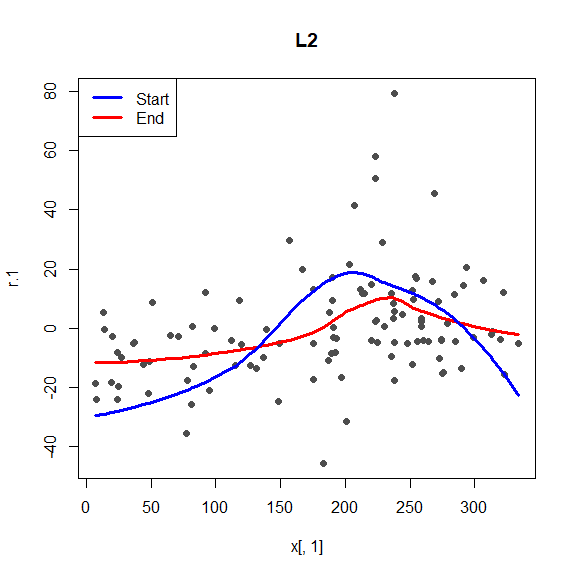
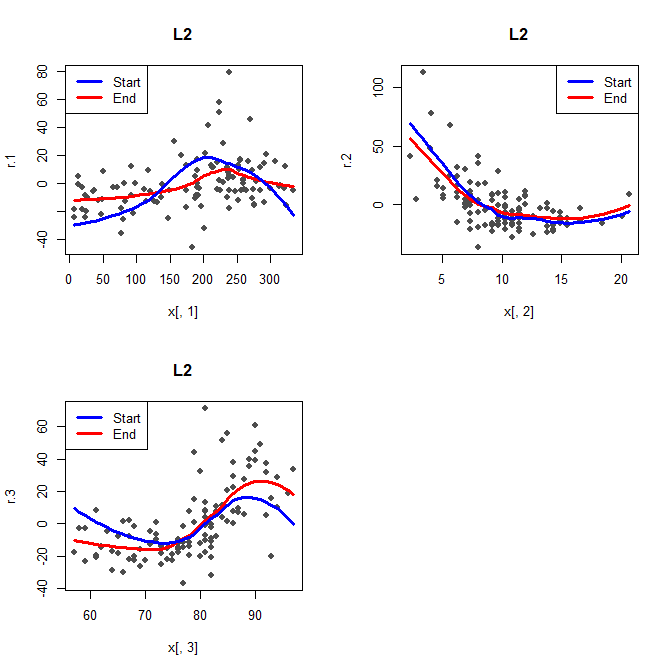
udpates, enough?

diff --git a/Example-backfitting.md b/Example-backfitting.md
@@ -1,7 +1,7 @@
 STAT547O - Backfitting notes
 ================
 Matias Salibian-Barrera
-2019-11-09
+2019-11-11
 
 #### LICENSE
 
@@ -18,11 +18,14 @@ thing**
 
 In these notes we apply the backfitting algorithm to estimate the
 components of an additive model for the Air Quality Data (available in
-`R` in package `datasets`). The goal is to illustrate how backfitting
-works, and compare the classical (“L2”) and robust estimators for an
-additive model. First we construct the response vector `y` and the
-“design matrix” `x` that contains the three available explanatory
-variables:
+`R` in package `datasets`). The goals are to illustrate in detail the
+steps of the algorithm for both the classical (“L2”) and robust cases,
+and also to compare the resulting estimates. The L2 backfitting
+algorithm with local polynomial smoothers is implemented in `gam::gam()`
+and the robust version in `RBF::backf.rob`.
+
+First we construct the response vector `y` and the “design matrix” `x`
+that contains the three available explanatory variables:
 
 ``` r
 data(airquality)
@@ -33,7 +36,9 @@ y <- as.vector(x$Ozone)
 x <- as.matrix(x[, c('Solar.R', 'Wind', 'Temp')])
 ```
 
-We use all the pairwise plots to take a very quick look at the data:
+The plot below show all the pairwise scatterplots, and is a simple
+exploratory tool (note that nothing out of the ordinary is apparent in
+the data):
 
 ``` r
 pairs(cbind(y,x), labels=c('Ozone', colnames(x)), pch=19, col='gray30', cex=1.5)
@@ -46,10 +51,10 @@ pairs(cbind(y,x), labels=c('Ozone', colnames(x)), pch=19, col='gray30', cex=1.5)
 As we discussed in class, the classical backfitting algorithm is used to
 estimate the components of an additive regression model. More
 specifically, the algorithm is an iterative procedure to find a solution
-to the first-order system of equations. There are two loops: the inner
-loop iterates over the components of the additive model, and the outer
-loop repeats this until a convergence (or stopping) criterion is
-satisfied.
+to the first-order system of equations for the L2 loss. There are two
+loops: the inner loop iterates over the components of the additive
+model, and the outer loop repeats the outer loop until a convergence (or
+stopping) criterion is satisfied.
 
 It is easy to see that in the L2 case the estimated intercept is the
 mean of the response, so the algorithm starts setting the intercept
@@ -76,7 +81,7 @@ residuals `r.1` above as a function of `x1`. In what follows we will use
 the function `loess` to compute a local polynomial regression estimator,
 with a bandwidth of `span = .65`. The latter was chosen subjectively
 (essentially by “eyeballing” the plots so that they look reasonable). In
-practice one would need a principled approach to this
+practice one would need a principled approach for this
 (e.g. cross-validation).
 
 ``` r
@@ -138,11 +143,12 @@ f.hat.2.orig <- f.hat.2
 f.hat.3.orig <- f.hat.3
 ```
 
-We have now completed **one** pass of the inner loop. We now perform 15
-iterations of this loop. Why 15? Only because I thought they would be
-enough for convergence. Just in case, below we also print the
-approximated L2 norm of consecutive estimates, the square root of
-\[\sum_{j=1}^3 \| \hat{f}_j^{(k+1)} - \hat{f}_j^{(k)} \|^2\].
+We have now completed **the first** pass of the inner loop. The next
+code chunk perform 15 more iterations of this loop. Why 15? Only because
+I thought they would be enough for convergence. Just in case, I also
+print the approximated L2 norm of consecutive estimates (the square root
+of \[\sum_{j=1}^3 \| \hat{f}_j^{(k+1)} - \hat{f}_j^{(k)} \|^2\]) to
+check that the algorithm is indeed converging.
 
 ``` r
 for(i in 1:15) {
@@ -185,35 +191,29 @@ for(i in 1:15) {
     ## [1] 8.061999e-06
     ## [1] 3.252211e-06
 
-We see that the algorithm converges rather quickly. Now plot the “final”
-estimates, and compare them with the initial ones:
+Indeed, the algorithm converges well.  
+We now plot the “final” estimates, and compare them with the initial
+ones:
 
 ``` r
+par(mfrow=c(2,2))
 plot(r.1 ~ x[,1], type='p', pch=19, col='gray30', main='L2')
 lines(f.hat.1[oo] ~ x[oo,1], col='red', lwd=3)
 lines(f.hat.1.orig[oo] ~ x[oo,1], col='blue', lwd=3)
 legend('topleft', legend=c('Start', 'End'), lwd=3, col=c('blue', 'red'))
-```
 
-![](Example-backfitting_files/figure-gfm/iterate.show-1.png)<!-- -->
-
-``` r
 plot(r.2 ~ x[,2], type='p', pch=19, col='gray30', main='L2')
 lines(f.hat.2[oo2] ~ x[oo2,2], col='red', lwd=3)
 lines(f.hat.2.orig[oo2] ~ x[oo2,2], col='blue', lwd=3)
 legend('topright', legend=c('Start', 'End'), lwd=3, col=c('blue', 'red'))
-```
 
-![](Example-backfitting_files/figure-gfm/iterate.show-2.png)<!-- -->
-
-``` r
 plot(r.3 ~ x[,3], type='p', pch=19, col='gray30', main='L2')
 lines(f.hat.3[oo3] ~ x[oo3,3], col='red', lwd=3)
 lines(f.hat.3.orig[oo3] ~ x[oo3,3], col='blue', lwd=3)
 legend('topleft', legend=c('Start', 'End'), lwd=3, col=c('blue', 'red'))
 ```
 
-![](Example-backfitting_files/figure-gfm/iterate.show-3.png)<!-- -->
+![](Example-backfitting_files/figure-gfm/iterate.show-1.png)<!-- -->
 
 **NOTE** that the above comparisons between the initial estimators and
 the final ones is not completely accurate, as the partial residuals in
@@ -234,32 +234,24 @@ dat$Ozone <- y
 gg <- predict(gam(Ozone ~ lo(Solar.R, span=.65) +
                   lo(Wind, span=.65) + lo(Temp, span=.65), data=dat),
               type='terms')
-
+par(mfrow=c(2,2))
 plot(r.1 ~ x[,1], type='p', pch=19, col='gray30')
 lines(f.hat.1[oo] ~ x[oo,1], col='red', lwd=3)
 lines(gg[oo,1] ~ x[oo,1], col='blue', lwd=3)
 legend('topleft', legend=c('gam::gam', 'Home made'), lwd=3, col=c('blue', 'red'))
-```
 
-![](Example-backfitting_files/figure-gfm/trygam-1.png)<!-- -->
-
-``` r
 plot(r.2 ~ x[,2], type='p', pch=19, col='gray30')
 lines(f.hat.2[oo2] ~ x[oo2,2], col='red', lwd=3)
 lines(gg[oo2,2] ~ x[oo2,2], col='blue', lwd=3)
 legend('topright', legend=c('gam::gam', 'Home made'), lwd=3, col=c('blue', 'red'))
-```
 
-![](Example-backfitting_files/figure-gfm/trygam-2.png)<!-- -->
-
-``` r
 plot(r.3 ~ x[,3], type='p', pch=19, col='gray30')
 lines(f.hat.3[oo3] ~ x[oo3,3], col='red', lwd=3)
 lines(gg[oo3,3] ~ x[oo3,3], col='blue', lwd=3)
 legend('topleft', legend=c('gam::gam', 'Home made'), lwd=3, col=c('blue', 'red'))
 ```
 
-![](Example-backfitting_files/figure-gfm/trygam-3.png)<!-- -->
+![](Example-backfitting_files/figure-gfm/trygam-1.png)<!-- -->
 
 I will also save our “final” estimators to compare them with the robust
 ones below:
@@ -292,13 +284,13 @@ si.hat <- RBF::backf.rob(Xp=x, yp=y, windows=bandw)$sigma.hat
 ```
 
 The bandwidths above were originally computed using robust cross
-validation and the implementation of this robust backfitting in
-`RBF::backf.rob`.
+validation (on a 3-dimensional grid) and the implementation of this
+robust backfitting in `RBF::backf.rob`.
 
 We now need a robust alternative to `loess` (specifically, of `predict(
-loess(...) )`). We will write our own function to do this. The following
-function `localM` computes a local M-estimator of regression, using a
-polynomial of 2nd degree. Formally, given:
+loess(...) )`). I wrote our own function (`localM` below) to compute a
+local M-estimator of regression, using a polynomial of 2nd degree and
+Tukey’s loss function. Formally, given:
 
   - the data (in the vectors `x` and `y`);
   - the bandwidth `h`;
@@ -311,14 +303,14 @@ the function `localM` computes the solution `a` to
 
     mean( \rhoprime( (y-a)/sigma), cc=cc) * kernel((x-x_0)/h) = 0
 
-By default, `cc` is chosen to achieve 95% asymptotic efficiency for
-linear regression models with Gaussian errors.
+By default, the tuning parameter `cc` is chosen to achieve 95%
+asymptotic efficiency for linear regression models with Gaussian errors.
 
 Our function `localM` also accepts two additional parameters (`tol` and
 `max.it`) to control the convergence of the weighted least squares
 iterations. The algorithm is initialized using a (kernel) weighted
 (“local”) L1 estimator of regression (also using a 2nd degree
-polynomial).
+polynomial). The function is here:
 
 ``` r
 localM <- function(x0, x, y, sigma, 
@@ -345,13 +337,14 @@ localM <- function(x0, x, y, sigma,
 }
 ```
 
-Using this function, we run the first step of the backfitting algorithm,
-exactly as before, but replacing `predict(loess(...))` with
-`localM(...)`. Note, however, that in this case we need to loop through
-the values of each explanatory variable in the training set (`loess`
-does this internally when we call `predict`). In fact, the function
-`RBF::backf.rob` does this, but the objective of these notes is to do it
-“by hand”.
+We now run the first step of the backfitting algorithm, exactly as
+before, but replacing `predict(loess(...))` with `localM(...)`. Note,
+however, that in this case we need to loop through the values of each
+explanatory variable in the training set to compute the vector `f.hat.1`
+of fitted values for the first component estimate (`loess` does this
+internally when we call `predict`). We could have used the function
+`RBF::backf.rob` that does this, but the objective of these notes is
+show every step of the algorithm “by hand”.
 
 Here is the first pass of the inner loop. The additive model components
 are initialized at zero, and the intercept is estimated using the
